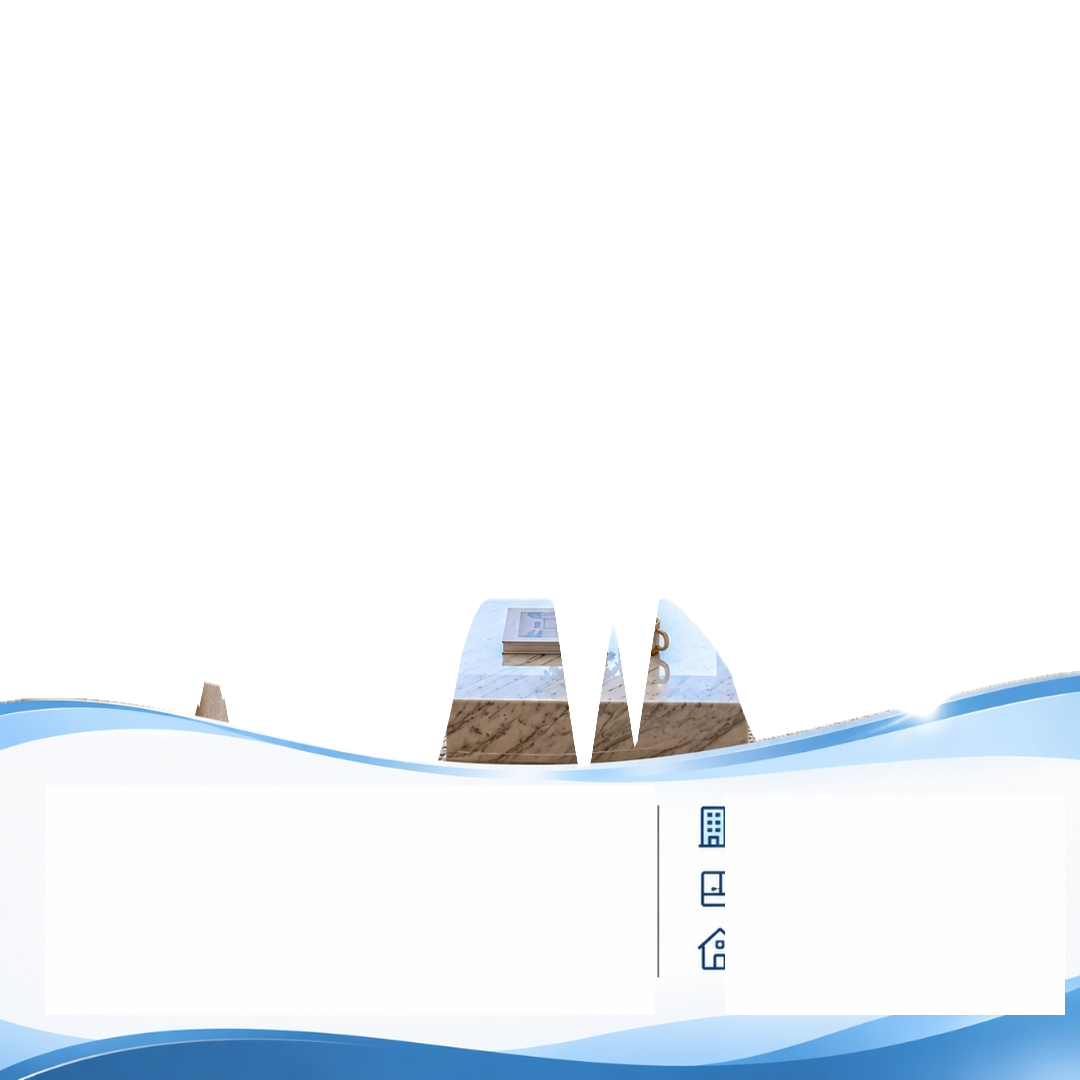
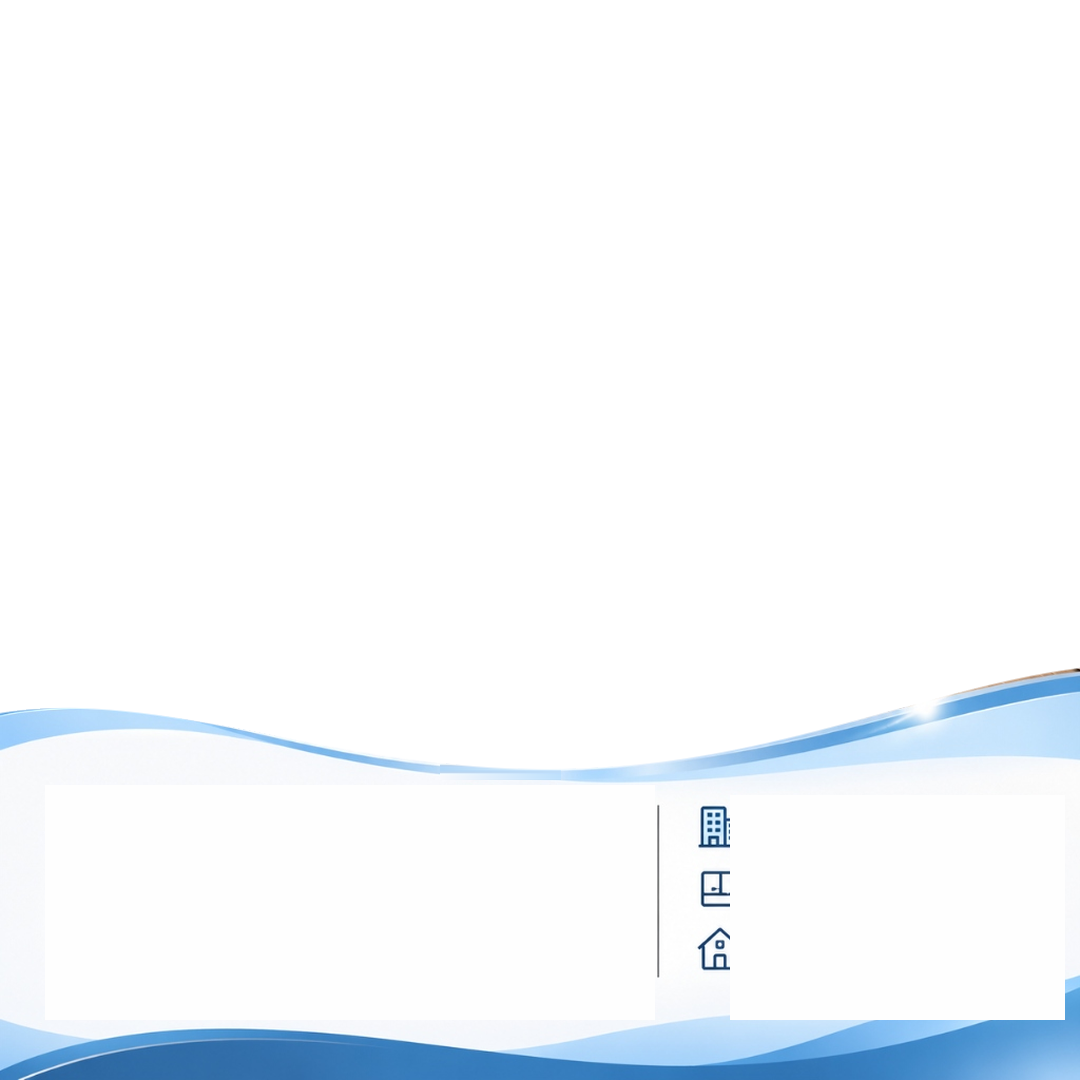
fix(design-frame): eliminate jagged artifacts, remove script glow box, repair wave curve, and provide clean transparent frame

diff --git a/thumbnail_generator.py b/thumbnail_generator.py
@@ -477,18 +477,11 @@ def _render_premium_wave(
         top_flare = Image.open(top_flare_path).convert("RGBA")
         canvas.paste(top_flare, (0, 0), top_flare)
 
-    # 3. 상단 우측 Premium House 캘리그래피 스크립트
+    # 3. 상단 우측 Premium House 캘리그래피 스크립트 (투명 오버레이로 원본 느낌 그대로 부착)
     script_path = os.path.join(ASSETS_DIR, "premium_house_script.png")
     if os.path.exists(script_path):
         script_img = Image.open(script_path).convert("RGBA")
-        glow_box = Image.new("RGBA", (script_img.width + 30, script_img.height + 20), (255, 255, 255, 0))
-        glow_draw = ImageDraw.Draw(glow_box)
-        try:
-            glow_draw.rounded_rectangle([0, 0, glow_box.width, glow_box.height], radius=15, fill=(255, 255, 255, 120))
-        except Exception:
-            glow_draw.rectangle([0, 0, glow_box.width, glow_box.height], fill=(255, 255, 255, 120))
-        canvas.paste(glow_box, (785, 15), glow_box)
-        canvas.paste(script_img, (800, 25), script_img)
+        canvas.paste(script_img, (810, 28), script_img)
 
     # 4. 상단 물건 번호 캡슐 뱃지 (집 아이콘 + No. APT001)
     draw = ImageDraw.Draw(canvas)
